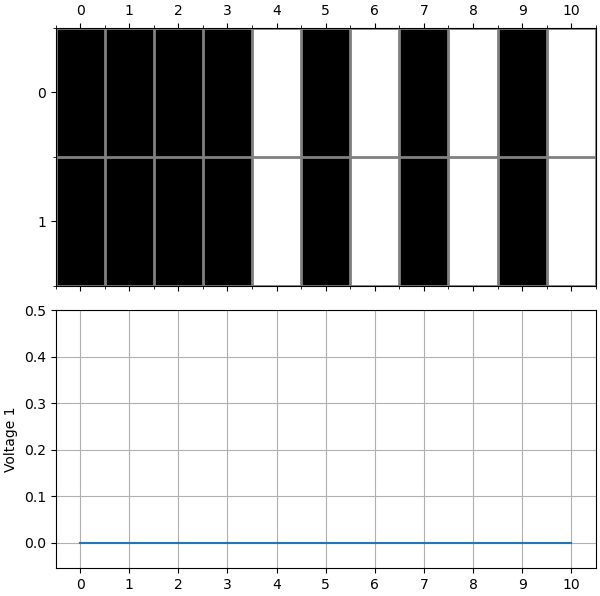
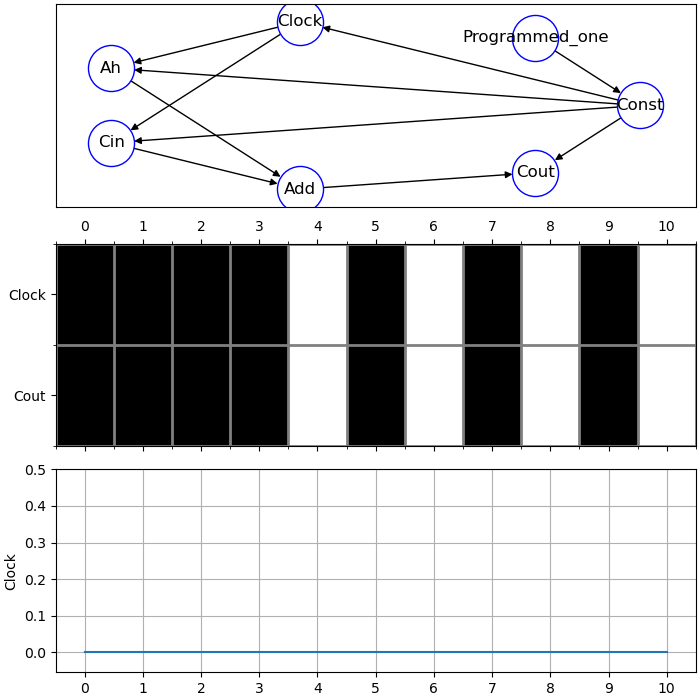
Draw Graph, label nodes

diff --git a/Python Simulator/examples/addcircuit.py b/Python Simulator/examples/addcircuit.py
@@ -9,43 +9,44 @@ sim = inet['simulator']
 K=2
 
 # create single spike programmed input, spiking at t=0 only
-Programmed_one = net.createInputTrain([0,1], False) # the spike could be anything, but here it is of amplitude 2, not timestep 2
+Programmed_one = net.createInputTrain([0,1], False, ID="Programmed_one") # the spike could be anything, but here it is of amplitude 2, not timestep 2
 
 # create infinitely spiking neuron from t=1 onwards
-Const = net.createLIF(thr=1, V_reset=1, m=1)
-net.createSynapse(Programmed_one, Const, w=1, d=1)
+Const = net.createLIF(ID="Const", thr=1, V_reset=1, m=1)
+net.createSynapse(Programmed_one, Const, ID="Programmed_one-Const", w=1, d=1)
 
 # create clock which fire at point t=4 value 4
-Clock = net.createLIF(thr=K, V_reset=0, m=1)
-net.createSynapse(Const, Clock, w=1, d=1)
+Clock = net.createLIF(ID="Clock", thr=K, V_reset=0, m=1)
+net.createSynapse(Const, Clock, ID="Const-Clock", w=1, d=1)
 
 # create node Ah
-Ah = net.createLIF(thr=1, V_reset=1, m=0.5)
-net.createSynapse(Const, Ah, w=-5, d=K+2)
+Ah = net.createLIF(ID="Ah", thr=1, V_reset=1, m=0.5)
+net.createSynapse(Const, Ah, ID="Const-Ah", w=-5, d=K+2)
 
 # create node Bh
-Bh = net.createLIF(thr=1, V_reset=1, m=0.5)
-net.createSynapse(Const, Bh, w=-5, d=K+2)
+Bh = net.createLIF(ID="Ah", thr=1, V_reset=1, m=0.5)
+net.createSynapse(Const, Bh, ID="Const-Bh", w=-5, d=K+2)
 
 # create node Cin
-Cin = net.createLIF(thr=1, V_reset=1, m=0.5)
-net.createSynapse(Const, Cin, w=-5, d=K+2)
+Cin = net.createLIF(ID="Cin", thr=1, V_reset=1, m=0.5)
+net.createSynapse(Const, Cin, ID="Const-Cin", w=-5, d=K+2)
 
 # create Add node
-Add = net.createLIF(thr=K, V_reset=0, m=1)
-net.createSynapse(Ah, Add, w=1, d=1)
-net.createSynapse(Bh, Add, w=1, d=1)
-net.createSynapse(Cin, Add, w=1, d=3)
+Add = net.createLIF(ID="Add", thr=K, V_reset=0, m=1)
+net.createSynapse(Ah, Add, ID="Ah-Add", w=1, d=1)
+net.createSynapse(Bh, Add, ID="Bh-Add", w=1, d=1)
+net.createSynapse(Cin, Add, ID="Cin-Add", w=1, d=3)
 
 # create Cout node
-Cout = net.createLIF(thr=K, V_reset=0, m=1)
-net.createSynapse(Add, Cout, w=-1, d=1)
-net.createSynapse(Const, Cout, w=1, d=1)
+Cout = net.createLIF(ID="Cout", thr=K, V_reset=0, m=1)
+net.createSynapse(Add, Cout, ID="Add-Cout", w=-1, d=1)
+net.createSynapse(Const, Cout, ID="Const-Cout", w=1, d=1)
 
 # The two inputs and Cin, Low is encoded as d=2, High is encoded as d=1
-net.createSynapse(Clock, Ah, w=1, d=2)
-net.createSynapse(Clock, Bh, w=1, d=2)
-net.createSynapse(Clock, Cin, w=1, d=2)
+net.createSynapse(Clock, Ah, ID="Clock-Ah", w=1, d=2)
+net.createSynapse(Clock, Bh, ID="Clock-Bh", w=1, d=2)
+net.createSynapse(Clock, Cin, ID="Clock-Cin", w=1, d=2)
+
 
 Raster_1 = sim.createRaster()
 Raster_1.addTarget(Clock)

diff --git a/Python Simulator/pySimulator/simulators.py b/Python Simulator/pySimulator/simulators.py
@@ -1,6 +1,7 @@
 import numpy as np
 from .detectors import *
 import matplotlib.ticker as ticker
+import networkx as nx
 
 class Simulator():
 	"""Simulator
@@ -64,20 +65,26 @@ class Simulator():
 	
 	def print_detectors(self, steps = 0):
 		measurements = [d.get_measurements() for d in self.detectors]
+		# names = [d.ID for t in measurements[0].targets]
 		# labels = [d.get_labels() for d in self.detectors]
 		ntd = len(measurements[0].T)
 		nvd = len(measurements[1].T)
-		fig, ax = plt.subplots(constrained_layout=True, nrows=nvd+1, figsize=(6, 6))
-		fig.axes[0].matshow(measurements[0].T, cmap='gray', aspect='auto')
-		fig.axes[0].set_xticks(np.arange(-.5, steps, 1), minor=True)
-		fig.axes[0].set_yticks(np.arange(-.5, ntd, 1), minor=True)
-		fig.axes[0].grid(which='minor', color='gray', linestyle='-', linewidth=2)
-		fig.axes[0].xaxis.set_major_locator(ticker.MultipleLocator(1))
+		fig, ax = plt.subplots(constrained_layout=True, nrows=nvd+2, figsize=(7, 7))
+		options = {"with_labels": True, "node_color": "white", 
+				   "edgecolors": "blue", "ax": fig.axes[0], 
+				   "node_size":1100, "pos": nx.circular_layout(self.network.graph)}
+		nx.draw_networkx(self.network.graph, **options)
+		fig.axes[1].matshow(measurements[0].T, cmap='gray', aspect='auto')
+		fig.axes[1].set_xticks(np.arange(-.5, steps, 1), minor=True)
+		fig.axes[1].set_yticks(np.arange(-.5, ntd, 1), minor=True)
+		fig.axes[1].grid(which='minor', color='gray', linestyle='-', linewidth=2)
+		fig.axes[1].xaxis.set_major_locator(ticker.MultipleLocator(1))
+		fig.axes[1].set_yticklabels(["standin"] + [t.ID for t in self.detectors[0].targets])
 
 		for i in range(nvd):
-			fig.axes[i+1].plot(measurements[1][:,i])
-			fig.axes[i+1].set_ylabel("Voltage "+str(i+1))
-			fig.axes[i+1].set_ylim(top=(max(measurements[1].T[i])+0.5))
-			fig.axes[i+1].grid(b=None, which='major')
-			fig.axes[i+1].xaxis.set_major_locator(ticker.MultipleLocator(1))
+			fig.axes[i+2].plot(measurements[1][:,i])
+			fig.axes[i+2].set_ylabel(self.detectors[0].targets[i].ID)
+			fig.axes[i+2].set_ylim(top=(max(measurements[1].T[i])+0.5))
+			fig.axes[i+2].grid(b=None, which='major')
+			fig.axes[i+2].xaxis.set_major_locator(ticker.MultipleLocator(1))
 		plt.show()

diff --git a/Python Simulator/pySimulator/networks.py b/Python Simulator/pySimulator/networks.py
@@ -1,6 +1,7 @@
 import numpy as np
 from .nodes import *
 from .connections import *
+import networkx as nx
 
 class Network():
 	"""Network containing a list of nodes and synapses
@@ -16,9 +17,11 @@ class Network():
 	def __init__(self, nodes=[], synapses=[]):
 		self.nodes = nodes
 		self.synapses = synapses
+		self.graph = nx.DiGraph()
 
 
 	def createLIF(self, m, V_init=0, V_reset=0, V_min=0, thr=1, amplitude=1, I_e=0, noise=0, rng=None, ID=None, increment_count=True):
+		self.graph.add_node(ID)
 		node = LIF(m, V_init, V_reset, V_min, thr, amplitude, I_e, noise, rng, ID, increment_count)
 		self.nodes.append(node)
 		return node
@@ -34,6 +37,7 @@ class Network():
 		return node
 
 	def createSynapse(self, pre, post, w, d, ID=None, increment_count=True):
+		self.graph.add_edge(pre.ID, post.ID)
 		synapse = Synapse(pre, post, w, d, ID, increment_count)
 		self.synapses.append(synapse)
 		return synapse
